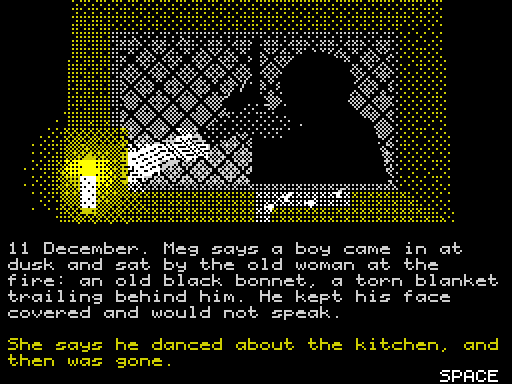
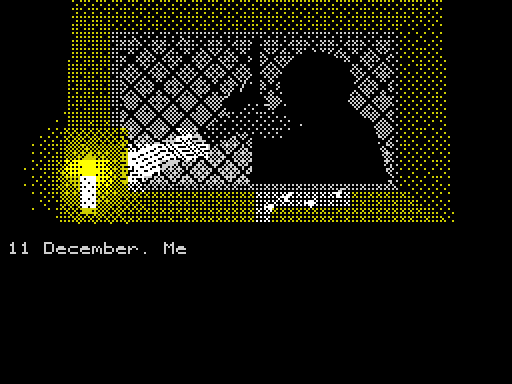
v0.5: scripts packed with ZX0 in chunks (LOAD opcode, pictures by number); credits test; notes

diff --git a/scripts/script.py b/scripts/script.py
@@ -21,6 +21,13 @@ A script is a list of steps run by the engine's `run` (src/main.asm):
                                    scripts/night.py) until the clerk presses X
   ("end",)                         return to the caller
 
+Each script is a chunk, packed with ZX0 and unpacked by the engine into
+the script buffer (the same place as the night's text: a script never runs
+while a night is unpacked). A ("night",) step ends its chunk: the steps
+after it become a new chunk, which the engine loads when the night is over.
+A jump or a choice to a label in another chunk becomes LOAD n, so such a
+label must be the first thing in its chunk. Pictures go by number (pictab).
+
 say/story keep a cursor in the text area and wrap at the right edge; a
 "wait" clears the area and puts the cursor back at the top. The compiler
 checks that nothing runs off the bottom.
@@ -35,7 +42,7 @@ from zx0 import compress  # noqa: E402
 
 # opcodes (must match src/main.asm)
 OP = dict(end=0, cls=1, pic=2, text=3, type=4, wait=5, pause=6, border=7,
-          clrrows=8, jump=9, choice=10, night=11)
+          clrrows=8, jump=9, choice=10, night=11, load=12)
 
 BLK, YEL, BYEL, WHT, BWHT, RED, BRED, CYN = 0x00, 0x06, 0x46, 0x07, 0x47, 0x02, 0x42, 0x05
 TEXT0 = 15                        # first text row under a picture
@@ -58,15 +65,50 @@ def wrap(s, width):
 
 
 class Compiler:
-    def __init__(self):
-        self.out = []             # assembler lines
+    def __init__(self, where=None, pics=()):
+        self.out = []             # assembler lines of the chunk being compiled
+        self.chunks = []          # (name, lines)
+        self.where = where or {}  # label -> (chunk number, first in its chunk)
+        self.found = {}
+        self.pics = list(pics)
+        self.stubs = {}
         self.row = TEXT0
         self.text0 = TEXT0
+        self.empty = True
+
+    def begin(self, name):
+        if self.chunks or self.out:
+            self.finish()
+        self.cur = name
+        self.out = ["%s:" % name]
+        self.stubs = {}
+        self.empty = True
+        self.label(name)
+
+    def finish(self):
+        for name, n in self.stubs.items():           # far choices: LOAD stubs
+            self.out.append("%s:" % name)
+            self.out.append("        db %d,%d" % (OP["load"], n))
+        self.chunks.append((self.cur, self.out))
+        self.out = []
+
+    def label(self, name):
+        self.found[name] = (len(self.chunks), self.empty)
+
+    def far(self, name):
+        """None if name is in this chunk, else its chunk number."""
+        n, first = self.where[name]
+        if n == len(self.chunks):
+            return None
+        assert first, "%s is in another chunk but not at its start" % name
+        return n
 
     def db(self, *vals):
+        self.empty = False
         self.out.append("        db " + ",".join(str(v) for v in vals))
 
     def string(self, s):
+        self.empty = False
         assert all(32 <= ord(c) < 128 for c in s), s
         self.out.append('        db "%s",0' % s.replace('"', "'"))
 
@@ -80,17 +122,18 @@ class Compiler:
     def step(self, st):
         k = st[0]
         if k == "label":
+            self.label(st[1])
             self.out.append("%s:" % st[1])
         elif k == "end":
             self.db(OP["end"])
         elif k == "night":
-            self.db(OP["night"])
+            self.db(OP["night"], len(self.chunks) + 1)
+            self.begin(self.cur + "_after")
         elif k == "cls":
             self.db(OP["cls"], st[1])
             self.text0 = self.row = 1
         elif k == "pic":
-            self.out.append("        db %d" % OP["pic"])
-            self.out.append("        dw pic_%s" % st[1])
+            self.db(OP["pic"], self.pics.index(st[1]))
             self.text0 = self.row = TEXT0
         elif k in ("text", "type"):
             _, row, col, attr, s = st
@@ -123,26 +166,55 @@ class Compiler:
         elif k == "border":
             self.db(OP["border"], st[1])
         elif k == "jump":
-            self.out.append("        db %d" % OP["jump"])
-            self.out.append("        dw %s" % st[1])
+            n = self.far(st[1])
+            if n is None:
+                self.db(OP["jump"])
+                self.out.append("        dw %s" % st[1])
+            else:
+                self.db(OP["load"], n)
         elif k == "choice":
             self.db(OP["choice"], len(st[1]))
             for key, label in st[1]:
+                n = self.far(label)
+                if n is not None:
+                    label = "go_%s_%d" % (self.cur, n)
+                    self.stubs[label] = n
                 self.out.append("        db %d" % ord(key))
                 self.out.append("        dw %s" % label)
         else:
             raise ValueError(k)
 
 
-def build(scripts, pics):
-    c = Compiler()
+def compile_all(scripts, pics, where=None):
+    c = Compiler(where, pics)
     for name, steps in scripts:
-        c.out.append("%s:" % name)
+        c.begin(name)
         for st in steps:
             c.step(st)
-    open(os.path.join(ROOT, "src", "script.inc"), "w").write(
-        "; generated by scripts/script.py\n" + "\n".join(c.out) + "\n")
+    c.finish()
+    return c
+
+
+def build(scripts, pics):
+    # two passes: the first finds which chunk each label is in
+    probe = Compiler(None, pics)
+    probe.far = lambda name: None                 # pass 1: no LOADs yet
+    for name, steps in scripts:
+        probe.begin(name)
+        for st in steps:
+            probe.step(st)
+    probe.finish()
+    c = compile_all(scripts, pics, probe.found)
+    src = os.path.join(ROOT, "src")
+    names = []
+    for n, (name, lines) in enumerate(c.chunks):
+        open(os.path.join(src, "chunk%d.inc" % n), "w").write(
+            "; generated by scripts/script.py: chunk %d (%s)\n" % (n, name) +
+            "\n".join(lines) + "\n")
+        names.append(name)
+    open(os.path.join(src, "chunks.txt"), "w").write("\n".join(names) + "\n")
     lines, total = ["; generated by scripts/script.py: pictures, ZX0"], 0
+    lines.append("pictab: dw " + ",".join("pic_%s" % p for p in pics))
     for name in pics:
         data = open(os.path.join(ROOT, "art", name + ".scr"), "rb").read()
         assert len(data) == 6912
@@ -152,7 +224,8 @@ def build(scripts, pics):
         for k in range(0, len(comp), 24):
             lines.append("        db " + ",".join(str(b) for b in comp[k:k + 24]))
     open(os.path.join(ROOT, "src", "pics.inc"), "w").write("\n".join(lines) + "\n")
-    print("script.inc + pics.inc written (pictures %d bytes packed)" % total)
+    print("%d script chunks + pics.inc written (pictures %d bytes packed)"
+          % (len(names), total))
 
 
 if __name__ == "__main__":

diff --git a/build.py b/build.py
@@ -4,11 +4,14 @@
 Runs the art and script steps first:
   art/font.py          -> src/font.inc
   art/prologue_art.py  -> art/*.scr
-  scripts/script.py    -> src/script.inc, src/pics.inc
+  scripts/script.py    -> src/chunk*.inc (one per script chunk), src/pics.inc
   scripts/night.py 1   -> src/night.inc (Night One's statements and findings)
 then assembles night.inc on its own at NBUF (as high under C000h as it
 fits) and packs it with ZX0 into src/night.zx0; its labels go to
-src/nightsym.inc for main.asm.
+src/nightsym.inc for main.asm. Each script chunk is assembled on its own
+at SBUF (as high under C000h as the largest fits) and packed the same way,
+into src/scripts.inc with the chunk table. A chunk and the night are never
+needed at once, so the two buffers may overlap.
 """
 import os
 import subprocess
@@ -45,11 +48,40 @@ packed = compress(blob)
 open("night.zx0", "wb").write(packed)
 open("nightsym.inc", "w").write("; generated by build.py from night.inc\nNBUF EQU %d\n" % NBUF + sym)
 
+
+
+def chunk_blob(n, org):
+    open("chunkblob.asm", "w").write(
+        "; generated by build.py\n        ORG %d\n        INCLUDE \"chunk%d.inc\"\n" % (org, n))
+    subprocess.run(["pasmo", "--bin", "chunkblob.asm", "chunkblob.bin"], check=True)
+    return open("chunkblob.bin", "rb").read()
+
+
+# The scripts (title, prologue, ...) are chunks, packed with ZX0 and
+# unpacked to SBUF by LOAD.
+names = open("chunks.txt").read().split()
+SBUF = (0xC000 - max(len(chunk_blob(n, 0x8000)) for n in range(len(names)))) & 0xFF00
+out = ["; generated by build.py: the script chunks, ZX0, unpacked to SBUF",
+       "SBUF EQU %d" % SBUF, "chunktab: dw " + ",".join("chunkz%d" % n for n in range(len(names)))]
+sizes = []
+for n, name in enumerate(names):
+    raw = chunk_blob(n, SBUF)
+    z = compress(raw)
+    sizes.append((name, len(raw), len(z)))
+    out.append("chunkz%d:   ; %s, %d bytes, %d packed" % (n, name, len(raw), len(z)))
+    for k in range(0, len(z), 24):
+        out.append("        db " + ",".join(str(b) for b in z[k:k + 24]))
+open("scripts.inc", "w").write("\n".join(out) + "\n")
+
 subprocess.run(["pasmo", "--bin", "main.asm", "main.bin", "main.sym"], check=True)
 code = open("main.bin", "rb").read()
 end = ORG + len(code)
-assert end <= NBUF, "code must stay below the night buffer at %04Xh (ends %04Xh)" % (NBUF, end)
+low = min(NBUF, SBUF)
+assert end <= low, "code must stay below the buffers at %04Xh (ends %04Xh)" % (low, end)
 print("night: %d bytes at %04Xh-BFFFh, %d packed" % (len(blob), NBUF, len(packed)))
+print("scripts: %d chunks at %04Xh, %d bytes, %d packed (%s)" % (
+    len(names), SBUF, sum(r for _, r, _ in sizes), sum(z for _, _, z in sizes),
+    ", ".join("%s %d" % (nm, r) for nm, r, _ in sizes)))
 
 # loading screen: the house, rows 14-23 blank
 screen = bytearray(open(os.path.join(ROOT, "art", "house.scr"), "rb").read())
@@ -87,5 +119,5 @@ tap = (header(0, "1711", len(basic), 10, len(basic)) + block(0xFF, basic) +
        header(3, "screen", 6912, 16384, 32768) + block(0xFF, bytes(screen)) +
        header(3, "1711", len(code), ORG, 32768) + block(0xFF, code))
 open(os.path.join(ROOT, "1711.tap"), "wb").write(tap)
-print("1711.tap: %d bytes; code %d bytes, %04Xh-%04Xh (%d free below the night buffer)"
-      % (len(tap), len(code), ORG, end - 1, NBUF - end))
+print("1711.tap: %d bytes; code %d bytes, %04Xh-%04Xh (%d free below the buffers)"
+      % (len(tap), len(code), ORG, end - 1, low - end))

diff --git a/scripts/story.py b/scripts/story.py
@@ -15,7 +15,7 @@ says or swears, never as fact:
 """
 from script import BLK, YEL, BYEL, WHT, BWHT, RED, BRED, CYN
 
-VERSION = "v0.4 slice"
+VERSION = "v0.5 slice"
 
 TITLE = [
     ("cls", WHT),

diff --git a/NOTES.md b/NOTES.md
@@ -1,4 +1,4 @@
-# 1711 (working title): project notes, v0.4 slice
+# 1711 (working title): project notes, v0.5 slice
 
 A ZX Spectrum 128K game. You are the clerk to Mayor Ellis of Carrickfergus,
 taking sworn statements at Braehead House, Islandmagee, in March 1711, as a
@@ -10,7 +10,11 @@ Based on the trial documents edited by Andrew Sneddon and Shannon Devlin
 w1711 graphic novel (CC BY-NC-ND) was read for research only: nothing from
 it is used.
 
-## What v0.4 has
+## What v0.5 has
+
+v0.5: the scripts (title, prologue, credits) are packed with ZX0 in
+chunks, like the night's text (see The script engine). Otherwise as v0.4:
+
 
 Title, the prologue (Sept 1710 to 3 March 1711: the haunting, the boy at
 the window, the grave, Agnes Wylie's death, Isobel's arrival, the apron),
@@ -75,8 +79,12 @@ Python 3 with Pillow, `pasmo`, a C compiler (`cc`, builds tools/zx0 once).
 build.py runs art/font.py, art/prologue_art.py, scripts/script.py and
 scripts/night.py, assembles src/night.inc on its own at NBUF (as high
 under C000h as it fits; A600h for Night One), packs it with ZX0 into
-src/night.zx0 and writes its labels to src/nightsym.inc, then assembles
-src/main.asm. `night` unpacks it to NBUF at the start of each night.
+src/night.zx0 and writes its labels to src/nightsym.inc. Then each script
+chunk (src/chunkN.inc) is assembled on its own at SBUF (as high under
+C000h as the largest fits; B400h in v0.5) and packed into src/scripts.inc
+with the chunk table, and src/main.asm is assembled. `night` unpacks the
+night to NBUF at the start of each night; LOAD unpacks a chunk to SBUF.
+The two buffers overlap: no script runs while a night is unpacked.
 Tape: BASIC loader (CLEAR 24575), loading screen (the house), code at 6000h.
 
 ## Files
@@ -86,7 +94,7 @@ Tape: BASIC loader (CLEAR 24575), loading screen (the house), code at 6000h.
 | src/main.asm | The engine: 128K check, script interpreter, text, keys |
 | src/dzx0_standard.asm | ZX0 decoder (Einar Saukas, BSD 3-Clause, tools/zx0/LICENSE) |
 | scripts/story.py | Title, prologue and credits as scripts; the name list |
-| scripts/script.py | Compiles scripts to src/script.inc, packs pictures to src/pics.inc |
+| scripts/script.py | Compiles scripts to chunks (src/chunkN.inc), packs pictures to src/pics.inc |
 | art/render.py | Picture renderer: greyscale + ink hints -> Spectrum screen |
 | art/prologue_art.py | The three prologue pictures (house, window, grave) |
 | art/font.py, art/zx0.py | From Night Porter: the 6-pixel font, the ZX0 wrapper |
@@ -100,12 +108,24 @@ Tape: BASIC loader (CLEAR 24575), loading screen (the house), code at 6000h.
 ## The script engine
 
 Scripts are byte code run by `run` in main.asm: an opcode, then its
-arguments. Opcodes: END, CLS attr, PIC addr (ZX0 full screen, hidden while
-it unpacks), TEXT row col attr "..", TYPE (the same, a letter every 2
+arguments. Opcodes: END, CLS attr, PIC n (picture n from `pictab`, a ZX0
+full screen, hidden while it unpacks; by number since v0.5), TEXT row col attr "..", TYPE (the same, a letter every 2
 frames with a faint tick; SPACE shows the rest of the page), WAIT row
 (flashing SPACE prompt, then clears the text area from that row), PAUSE n,
-BORDER n, CLRROWS row n, JUMP addr, CHOICE n {key, addr}, NIGHT (the
-night's screens in night.asm, until the clerk presses X). In story.py,
+BORDER n, CLRROWS row n, JUMP addr, CHOICE n {key, addr}, NIGHT n (the
+night's screens in night.asm, until the clerk presses X, then LOAD n),
+LOAD n (v0.5: unpack chunk n to SBUF and run it from its start).
+
+Chunks (v0.5): each script in story.py is a chunk, packed with ZX0. A
+("night",) step ends its chunk, and the steps after it become the next
+chunk ("prologue_start_after": the end card), because the night's text is
+unpacked over the script buffer. script.py turns a jump to another chunk
+into LOAD n and a choice into a two-byte LOAD stub, so a label another
+chunk goes to must be the first thing in its chunk (the compiler checks).
+v0.5 chunks: title 189 bytes, prologue 3042, end card 155, credits 602;
+3988 bytes in all, 2455 packed. Unpacking the prologue takes a few
+frames, so the SPACE that begins no longer also skips page 1's typing.
+Later the chunks move to banks with the nights (LOAD will page one in). In story.py,
 "story" and "say" wrap text and keep a cursor in the text area; the
 compiler refuses any page that runs off the screen.
 
@@ -160,8 +180,9 @@ accused says, typed after the fit every time.
 
 ## Memory plan
 
-The code stays below C000h. v0.4: code 6000h-9962h (14.3 KB), then 3.2 KB
-free, then the night buffer A600h-BFFFh: Night One's text and tables, 6.4
+The code stays below C000h. v0.5: code 6000h-93A0h (12.9 KB), then 4.6 KB
+free, then the night buffer A600h-BFFFh (the script buffer B400h-BFFFh
+lies inside it): Night One's text and tables, 6.4
 KB unpacked, kept in the code as 2.9 KB of ZX0 (was 6.4 KB unpacked in the
 code at v0.3). The buffer moves to a bank with the boot stub. Nights' text and pictures go
 in banks 1, 3, 4, 6 and 7, loaded from the tape like Night Porter's extras
@@ -184,19 +205,29 @@ Willson -> John Wilson, Donaldson -> Hugh Gilmour.
 
 ## Next
 
-1. Pack the prologue's script with ZX0 too (3.0 KB -> about 1.8 KB). Not
-   done in v0.4: the scripts jump between title, prologue and credits and
-   point at the pictures by address, so they need a "load script" opcode
-   and pictures by number first. The night's text is packed (v0.4).
-2. To discuss before building: what the clerk's book is for. Ideas: it
-   feeds Justice Lyle's doubts at the trial (the real Justice Upton argued
-   for acquittal and was outvoted); a candle that burns down with each
-   compare, so comparing has a cost and the clerk can't try every pair.
+1. Done in v0.5: the scripts are ZX0 chunks (LOAD, pictures by number);
+   1.5 KB saved.
+2. Decided (26 Nov): the clerk's book feeds Justice Lyle's doubts at the
+   trial (the real Justice Upton argued for acquittal and was outvoted),
+   and one candle a night is the cost: comparing burns a little, writing a
+   finding out burns more, so leaving one out keeps light for comparing.
+   Why: comparing was free (Night One: 30 lines, 435 pairs, 9 that mean
+   anything) and Y was always the best answer. The verdict never changes
+   (they are convicted, as in 1711); what changes is what Lyle can say and
+   what the record shows was there to be seen. Stage 1, the candle, now;
+   stage 2, the trial and Lyle's argument, once there are banks (keep each
+   night's finding flags, about 16 bytes a night, after its buffer goes).
 3. Portraits (Isobel first), hand-checked for the "human, not monstrous"
    rule: the accused's scars are never the scary part.
 4. Banks and the boot stub; AY music (a slow theme, a church-bell tone).
 
 ## Testing
+
+v0.5: the prologue test needs one more SPACE (the press that begins no
+longer skips page 1's typing; every page is the same screen as before,
+one press later). New test credits.keys (C on the title, the credits,
+back to the title); parade.keys goes on from the end card to the credits
+and the title, so every chunk and LOAD is run.
 
 v0.4: committed tests. `python3 tools/keytest.py` loads 1711.tap with
 tap2sna (128K ROM loader, to 6000h), runs each tools/tests/*.keys through
